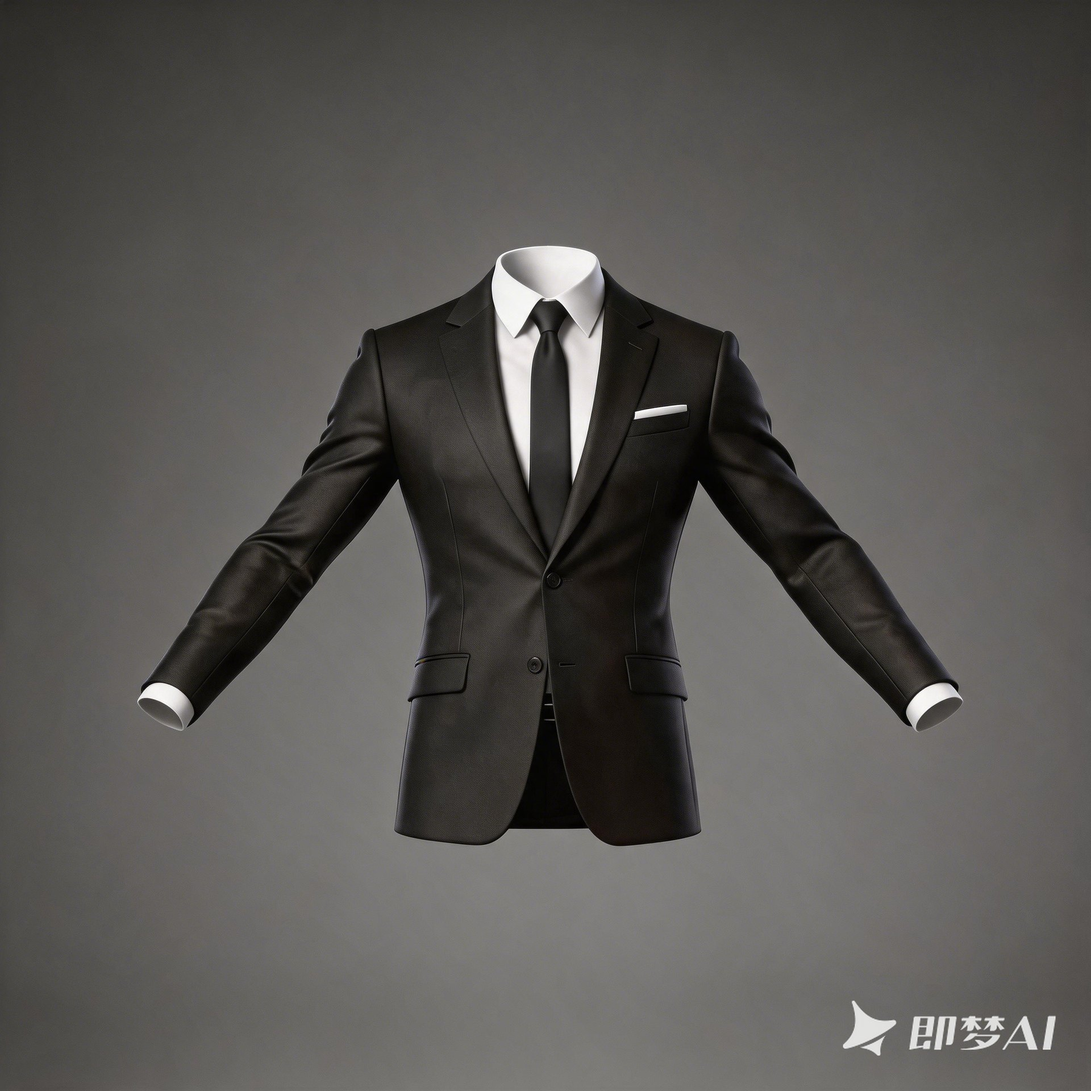
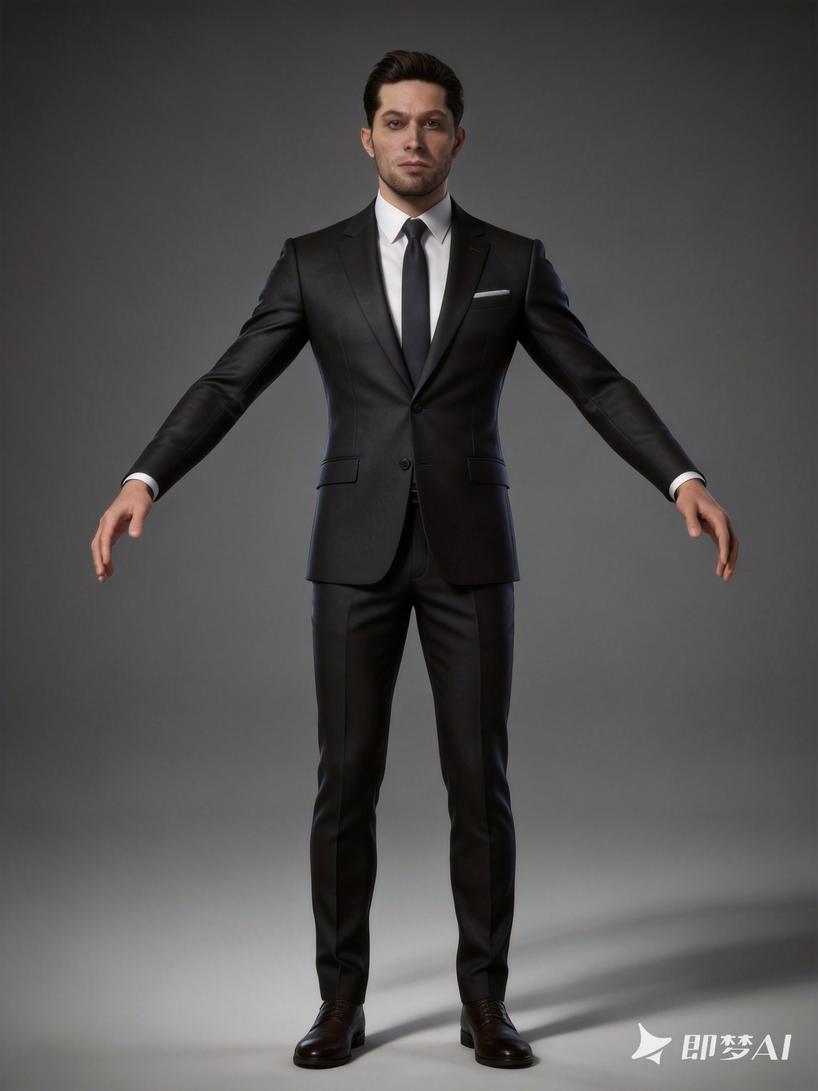
Metahuman 补全裤子/皮鞋（图集 16 张）+ AI 过程图按尾缀 1-8 重排；比特糖换新截图封面+图集（英文版/图纸预览/拼豆绘制）+ 真实正文；OnBoard 上板条目上架（vibecoding，A 级，4 张实机截图，整体效果作封面）；内页顶栏补中/EN 按钮（同首页样式，纯展示待翻译）；DEV 状态卡文案同步

diff --git a/scripts/process-b-assets.py b/scripts/process-b-assets.py
@@ -37,22 +37,45 @@ MAPPINGS = {
     # 「Len mou 白.png」白底白 logo 上站呈全白（2026-09-06 用户确认移除），不再入库
     '平面类/logo&字体设计/len mou 黑.png': 'graphic/logo-lenmou-b.jpg',
     '平面类/OnBoard（我的vibecoding类别作品中的3D预览器品牌）/OnBoard品牌logo排版.png': 'graphic/onboard-brand.jpg',
+    # ---- vibecoding：BitSugar / OnBoard 实机截图（尾缀定序；比特糖 -1 即封面）----
+    'vibecoding/BitSugar · 比特糖/比特糖网站截图展示-1.png': 'bitsugar-cover.jpg',
+    'vibecoding/BitSugar · 比特糖/比特糖网站截图展示-英文版-2.png': 'bitsugar-en.jpg',
+    'vibecoding/BitSugar · 比特糖/首页下方的图纸预览界面截图-3.png': 'bitsugar-preview.jpg',
+    'vibecoding/BitSugar · 比特糖/拼豆绘制界面截图-4.png': 'bitsugar-paint.jpg',
+    'vibecoding/OnBoard · 上板/01-默认界面截图.png': 'onboard-01.jpg',
+    'vibecoding/OnBoard · 上板/02-贴花效果截图.png': 'onboard-02.jpg',
+    'vibecoding/OnBoard · 上板/03-弹窗设置截图.png': 'onboard-03.jpg',
+    'vibecoding/OnBoard · 上板/04-整体效果截图.png': 'onboard-04.jpg',
     # ---- 3D 类：座机四视角（正面已有 phone-front.jpg）----
     '3D类/老式电话机/老式电话渲染图/老式电话背面细节图.png': 'phone-back.jpg',
     '3D类/老式电话机/老式电话渲染图/老式电话左侧面细节图.png': 'phone-left.jpg',
     '3D类/老式电话机/老式电话渲染图/老式电话右侧面细节图.png': 'phone-right.jpg',
-    # ---- 3D 类：Metahuman 图集 + AI 辅助过程 ----
-    '3D类/Metahuman服装角色流程/UE5中角色全身截图（用于生成AI做参考）.png': 'meta-fullbody.jpg',
+    # ---- 3D 类：Metahuman 图集 + AI 辅助过程（过程图按用户尾缀 -1..-8 定序）----
+    '3D类/Metahuman服装角色流程/UE5中角色全身截图（用于生成AI做参考）-3.png': 'meta-fullbody.jpg',
     '3D类/Metahuman服装角色流程/Metahuman卡片封面.png': 'meta-card.jpg',
     '3D类/Metahuman服装角色流程/上衣渲染图.png': 'meta-top-render.jpg',
     '3D类/Metahuman服装角色流程/上衣高模.png': 'meta-top-high.jpg',
     '3D类/Metahuman服装角色流程/上衣低模.png': 'meta-top-low.jpg',
     '3D类/Metahuman服装角色流程/上衣低模拓扑线图.png': 'meta-top-wire.jpg',
-    '3D类/Metahuman服装角色流程/法线烘培结果.png': 'meta-bake.jpg',
-    '3D类/Metahuman服装角色流程/AI辅助角色制作流程/01-即梦AI角色头部形象生成截图.png': 'meta-ai-01.jpg',
-    '3D类/Metahuman服装角色流程/AI辅助角色制作流程/02-Hyper3D生成头部高模与基本贴图截图.png': 'meta-ai-02.jpg',
-    '3D类/Metahuman服装角色流程/AI生成角色着装图.png': 'meta-ai-03.jpg',
-    '3D类/Metahuman服装角色流程/AI生成上衣拆分图.png': 'meta-ai-04.jpg',
+    '3D类/Metahuman服装角色流程/上衣法线烘培结果.png': 'meta-bake.jpg',
+    '3D类/Metahuman服装角色流程/裤子渲染图.png': 'meta-pants-render.jpg',
+    '3D类/Metahuman服装角色流程/裤子高模.png': 'meta-pants-high.jpg',
+    '3D类/Metahuman服装角色流程/裤子低模.png': 'meta-pants-low.jpg',
+    '3D类/Metahuman服装角色流程/裤子低模拓扑线图.png': 'meta-pants-wire.jpg',
+    '3D类/Metahuman服装角色流程/裤子法线烘培结果.png': 'meta-pants-bake.jpg',
+    '3D类/Metahuman服装角色流程/皮鞋渲染图.png': 'meta-shoes-render.jpg',
+    '3D类/Metahuman服装角色流程/皮鞋高模.png': 'meta-shoes-high.jpg',
+    '3D类/Metahuman服装角色流程/皮鞋低模.png': 'meta-shoes-low.jpg',
+    '3D类/Metahuman服装角色流程/皮鞋低模拓扑线图.png': 'meta-shoes-wire.jpg',
+    '3D类/Metahuman服装角色流程/皮鞋法线烘培结果.png': 'meta-shoes-bake.jpg',
+    '3D类/Metahuman服装角色流程/即梦AI角色头部形象生成截图-1.png': 'meta-ai-01.jpg',
+    '3D类/Metahuman服装角色流程/02-Hyper3D生成头部高模与基本贴图截图-2.png': 'meta-ai-02.jpg',
+    # 过程第 3 步（UE5 全身参考）与图集 meta-fullbody 同源同图，直接复用不另存
+    '3D类/Metahuman服装角色流程/AI生成角色着装图-4.png': 'meta-ai-04.jpg',
+    '3D类/Metahuman服装角色流程/AI生成去除角色图-5.png': 'meta-ai-05.jpg',
+    '3D类/Metahuman服装角色流程/AI生成上衣拆分图-6.png': 'meta-ai-06.jpg',
+    '3D类/Metahuman服装角色流程/AI生成裤子拆分图-7.png': 'meta-ai-07.jpg',
+    '3D类/Metahuman服装角色流程/AI生成皮鞋拆分图-8.png': 'meta-ai-08.jpg',
     # ---- 3D 类：圣甲虫过程（成品渲染图已有 scarab-sphere.jpg）----
     **{
         f'3D类/圣甲虫球体地编项目/圣甲虫球体UE5场景搭建步骤图/BuZ.{i}.jpeg': f'scarab-step-{i + 1}.jpg'

diff --git a/src/content/works/metahuman-costume.md b/src/content/works/metahuman-costume.md
@@ -8,23 +8,32 @@ cover_alt: Metahuman 服装角色卡片封面
 date: 2026-06-01
 tools: [UE5, 即梦AI, Hyper3D]
 attribution: 原创
-summary: 为原创游戏《404航班》制作的主角角色：AI 辅助生成设定与高模，UE5 Metahuman 集成，手动拓扑与法线烘焙。
+summary: 为原创游戏《404航班》制作的主角角色：AI 辅助生成设定与高模，UE5 Metahuman 集成，上衣/裤子/皮鞋全套手动拓扑与法线烘焙。
 video: /videos/metahuman-suit.mp4
 gallery:
-  [/works/meta-top-render.jpg, /works/meta-fullbody.jpg, /works/meta-top-high.jpg, /works/meta-top-low.jpg, /works/meta-top-wire.jpg, /works/meta-bake.jpg]
+  [/works/meta-top-render.jpg, /works/meta-fullbody.jpg, /works/meta-top-high.jpg, /works/meta-top-low.jpg, /works/meta-top-wire.jpg, /works/meta-bake.jpg, /works/meta-pants-render.jpg, /works/meta-pants-high.jpg, /works/meta-pants-low.jpg, /works/meta-pants-wire.jpg, /works/meta-pants-bake.jpg, /works/meta-shoes-render.jpg, /works/meta-shoes-high.jpg, /works/meta-shoes-low.jpg, /works/meta-shoes-wire.jpg, /works/meta-shoes-bake.jpg]
 process:
   - img: /works/meta-ai-01.jpg
-    caption: 即梦 AI 生成角色头部设定
+    caption: 1/8 · 即梦 AI 生成角色头部设定
   - img: /works/meta-ai-02.jpg
-    caption: Hyper3D 生成头部高模与基础贴图
-  - img: /works/meta-ai-03.jpg
-    caption: AI 生成角色着装参考
+    caption: 2/8 · Hyper3D 生成头部高模与基础贴图
+  - img: /works/meta-fullbody.jpg
+    caption: 3/8 · UE5 角色全身（作为 AI 生成的参考）
   - img: /works/meta-ai-04.jpg
-    caption: AI 生成服装拆分图（建模参考）
+    caption: 4/8 · AI 生成角色着装图
+  - img: /works/meta-ai-05.jpg
+    caption: 5/8 · AI 生成去除角色图（服装提取）
+  - img: /works/meta-ai-06.jpg
+    caption: 6/8 · AI 生成上衣拆分图（建模参考）
+  - img: /works/meta-ai-07.jpg
+    caption: 7/8 · AI 生成裤子拆分图（建模参考）
+  - img: /works/meta-ai-08.jpg
+    caption: 8/8 · AI 生成皮鞋拆分图（建模参考）
 ---
 
 ## 制作说明
 
 为原创游戏《404航班》制作的主角角色：即梦 AI 生成头部设定 → Hyper3D
-生成头部高模与贴图 → UE5 Metahuman 集成 → 服装建模、低模拓扑与法线烘焙。
-AI 辅助环节如上过程图，拓扑与烘焙为手动完成。角色动作演示见条目视频。
+生成头部高模与贴图 → UE5 Metahuman 集成 → 上衣、裤子、皮鞋全套服装
+建模、低模拓扑与法线烘焙。AI 辅助环节如过程图（按流程 1–8 排序），
+拓扑与烘焙为手动完成。角色动作演示见条目视频。

diff --git a/src/content/works/bitsugar.md b/src/content/works/bitsugar.md
@@ -3,16 +3,23 @@ title: BitSugar 拼豆图纸站
 category: vibecoding
 level: S
 order: 3
-cover: /works/bitsugar-cover.png
+cover: /works/bitsugar-cover.jpg
 cover_alt: 比特糖网站截图展示——像素风首页与拼豆图纸操作面板
 date: 2026-09-02
 tools: [Web, AI-ASSISTED]
 attribution: 原创
-summary: 免费公益网站，已部署上线。域名、DNS、部署、站长提交全流程独立完成。
+summary: 免费公益网站，已部署上线。域名、DNS、部署、站长提交全流程独立完成，GitHub 开源。
 links:
   - { label: bitsugar.top, url: 'https://bitsugar.top' }
+  - { label: GitHub, url: 'https://github.com/lenmou2929/BitSugar' }
+gallery_layout: single
+gallery:
+  [/works/bitsugar-en.jpg, /works/bitsugar-preview.jpg, /works/bitsugar-paint.jpg]
 ---
 
 ## 制作说明
 
-（占位正文——制作过程图文待 Phase 5 填充：产品功能说明 / AI 辅助开发工作流。）
+拼豆图纸制作工具站（公益免费，已上线）：色卡识别、图纸生成与裁切、
+像素绘制、多语言与移动端适配。AI 辅助开发工作流，域名、DNS、部署、
+百度站长提交全流程独立完成；代码开源（无密钥版本）。首页截图见条目封面，
+英文版、图纸预览与拼豆绘制界面见下图。

diff --git a/src/content/works/onboard.md b/src/content/works/onboard.md
@@ -1,0 +1,22 @@
+---
+title: OnBoard 上板 · 3D 雪板预览器
+category: vibecoding
+level: A
+cover: /works/onboard-04.jpg
+cover_alt: OnBoard 雪板预览器整体效果——雪地场景中的雪板与贴花编辑面板
+date: 2026-09-01
+tools: [Web, AI-ASSISTED]
+attribution: 原创
+summary: 网页端 3D 雪板预览工具（自研，AI 辅助开发）：材质编辑、贴花系统、HDRI 环境与烘焙导出。部署后可在线试用。
+gallery_layout: single
+gallery:
+  [/works/onboard-01.jpg, /works/onboard-02.jpg, /works/onboard-03.jpg, /works/onboard-04.jpg]
+---
+
+## 制作说明
+
+面向雪板设计师的网页端 3D 预览工具「OnBoard（上板）」：给板面换材质、
+贴花、调 HDRI 环境、UV 平铺微调，最后烘焙导出成品贴图——把"改一版
+效果图"从离线渲染变成浏览器里实时可看。自研项目，多智能体 AI 辅助
+开发（开发过程留档 60+ 篇）。当前 v0.6，部署后将嵌入本站在线试用；
+品牌标识见平面分类 Logo & 字体条目。
